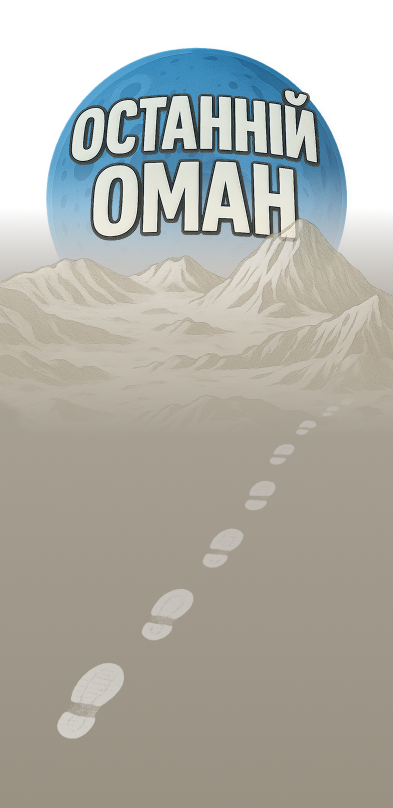
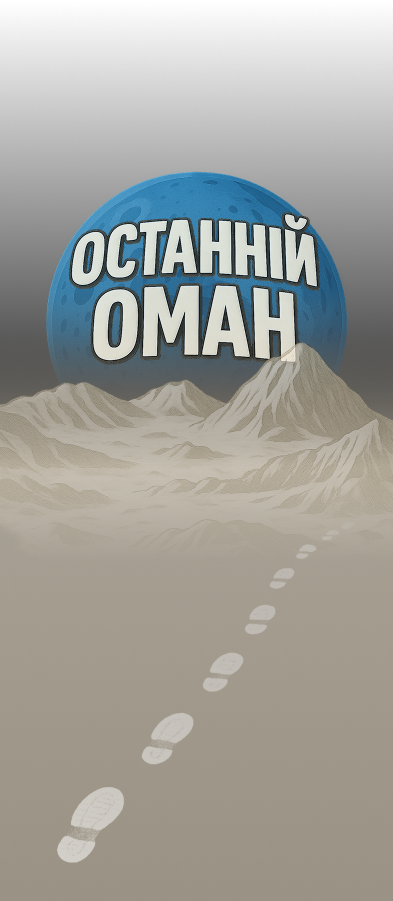
main menu changes

diff --git a/src/pages/MainMenuPage/MainMenuPage.tsx b/src/pages/MainMenuPage/MainMenuPage.tsx
@@ -25,27 +25,41 @@ const MainMenuPage = () => {
                 backgroundSize: 'auto'
             }}
         >
-            <img src={planetWithMountains} alt="planets" className="w-full"/>
+            <img
+                src={planetWithMountains}
+                alt="planets"
+                className="w-screen h-screen object-cover"
+            />
 
             <div className={`absolute w-full flex flex-col justify-center bottom-5 min-h-fit px-14`}>
 
-                <div className={`w-auto flex flex-col justify-center gap-4 mb-14 p-6 px-4 p min-h-fit rounded-[2rem] bg-white/50 shadow-[0px_4px_8.7px_5px_rgba(255,255,255,0.25)]`}>
+                <div
+                    className={`w-auto flex flex-col font-bold ${innerWidth >= 390 ? "text-[21px]" : "text-[18px]"} justify-center gap-1 text-white mb-10 p-6 px-4 p min-h-fit rounded-[2rem] bg-white/50 shadow-[0px_4px_8.7px_5px_rgba(255,255,255,0.25)]`}
+                    style={{
+                        textShadow: '0px 4px 4px rgba(0,0,0,0.25)',
+                    }}
+                >
                     <div className={`w-fit flex items-end gap-4 font-playFont`}>
-                        <img src={GenreIcon} alt={'img'} className={`h-[25px]`}/>
-                        <h1 className={`uppercase w-fit text-[13px]`}>жанр: <span className={`text-[21px]`}>{genre}</span></h1>
+                        {/*<img src={GenreIcon} alt={'img'} className={`h-[25px]`}/>*/}
+                        <h1
+                            className={`uppercase w-fit`}
+                        >жанр:
+                            <span className={`font-normal`}> {genre}</span></h1>
                     </div>
                     <div className={`w-fit flex items-end gap-4 font-playFont`}>
-                        <img src={DurationIcon} alt={'img'} className={`h-[25px]`}/>
-                        <p className={`uppercase w-fit text-[13px]`}>тривалість: <span className={`text-[21px]`}>{duration}</span> </p>
+                        {/*<img src={DurationIcon} alt={'img'} className={`h-[25px]`}/>*/}
+                        <p className={`uppercase w-fit`}>тривалість:
+                            <span className={`font-normal`}> {duration}</span></p>
                     </div>
                     <div className={`w-fit flex items-center gap-4 font-playFont`}>
-                        <img src={DateIcon} alt={'img'} className={`h-[25px]`}/>
-                        <h1 className={`uppercase w-fit text-[13px]`}>прем'єра: <span className={`text-[21px]`}>{date}</span></h1>
+                        {/*<img src={DateIcon} alt={'img'} className={`h-[25px]`}/>*/}
+                        <h1 className={`uppercase w-fit`}>прем'єра:<br/>
+                            <span className={`font-normal`}>{date}</span></h1>
                     </div>
                 </div>
 
                 <div
-                    className={`w-full flex flex-wrap justify-between`}>
+                    className={`w-full flex flex-wrap justify-between mb-8`}>
                     {DetailedIcons.map((icon, index) => (
                         <MainMenuNavButton key={index} {...icon} />
                     ))}
